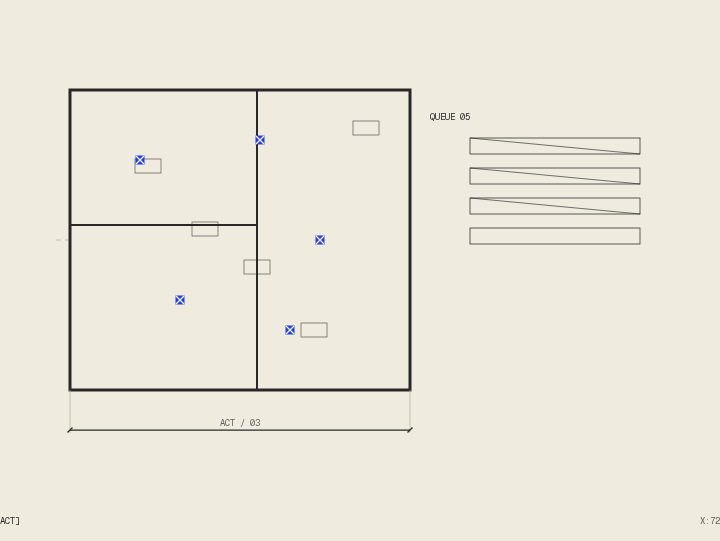
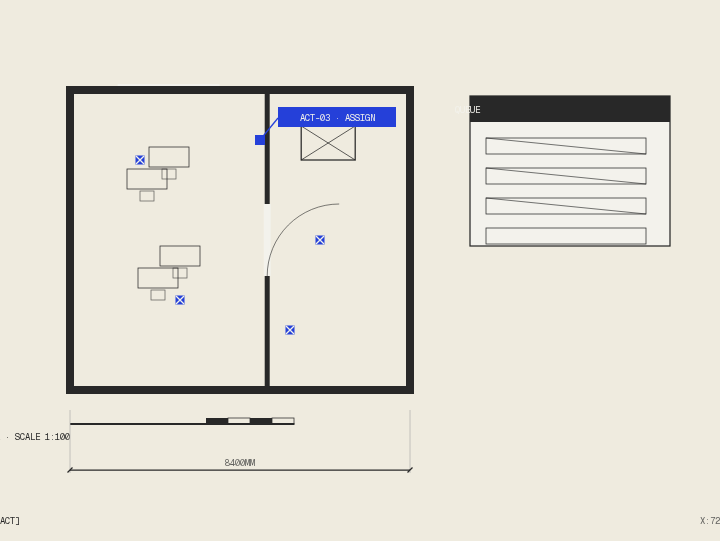
fix(r359): why plates read as real plans — poché fragments, anchored callout tags, instrument cards, title blocks

diff --git a/shared/art/scenes/sections.ts b/shared/art/scenes/sections.ts
@@ -13,7 +13,7 @@
  */
 import type { ArtBuilder, ArtDoc, ArtNode } from '../grammar';
 import {
-  C, D, W, circ, dashRule, dimH, hatchPoly, label, line,
+  C, D, W, circ, dashRule, dimH, g, hatchPoly, label, line,
   path, rect, stairs, stipplePoly, tree,
 } from '../grammar';
 
@@ -40,21 +40,53 @@ function link(x1: number, y1: number, x2: number, y2: number): ArtNode {
   return line(x1, y1, x2, y2, { stroke: C.sig, 'stroke-width': W.fine, 'stroke-dasharray': '5 4' });
 }
 
-/** a small plan fragment (rooms) used as the base of why plates */
+/** a real plan fragment: poché walls, opening + swing, furniture */
 function planFragment(x: number, y: number, w: number, h: number, seed: number): ArtNode[] {
   const out: ArtNode[] = [];
-  out.push(rect(x, y, w, h, { fill: 'none', stroke: C.ink, 'stroke-width': 3 }));
-  out.push(line(x + w * 0.55, y, x + w * 0.55, y + h, { stroke: C.ink, 'stroke-width': 2 }));
-  out.push(line(x, y + h * 0.45, x + w * 0.55, y + h * 0.45, { stroke: C.ink, 'stroke-width': 2 }));
-  // furniture hints
+  const XW2 = 8, PW2 = 5;
+  // poché envelope
+  out.push(line(x, y, x + w, y, { stroke: C.ink, 'stroke-width': XW2, 'stroke-linecap': 'square' }));
+  out.push(line(x + w, y, x + w, y + h, { stroke: C.ink, 'stroke-width': XW2, 'stroke-linecap': 'square' }));
+  out.push(line(x + w, y + h, x, y + h, { stroke: C.ink, 'stroke-width': XW2, 'stroke-linecap': 'square' }));
+  out.push(line(x, y + h, x, y, { stroke: C.ink, 'stroke-width': XW2, 'stroke-linecap': 'square' }));
+  // partitions with a door opening
+  out.push(line(x + w * 0.58, y, x + w * 0.58, y + h * 0.38, { stroke: C.ink, 'stroke-width': PW2 }));
+  out.push(line(x + w * 0.58, y + h * 0.62, x + w * 0.58, y + h, { stroke: C.ink, 'stroke-width': PW2 }));
+  out.push(rect(x + w * 0.58 - PW2 / 2 - 1, y + h * 0.38, PW2 + 2, h * 0.24, { fill: 'var(--r359-paper)', stroke: 'none' }));
+  out.push(path(`M${x + w * 0.58} ${y + h * 0.62}A${h * 0.24} ${h * 0.24} 0 0 1 ${x + w * 0.58 + h * 0.24} ${y + h * 0.38}`, { fill: 'none', stroke: C.ink, 'stroke-width': W.hair, opacity: 0.8 }));
+  // window band on the far wall
+  out.push(rect(x + w * 0.14, y - XW2 / 2 - 2, w * 0.3, 2, { fill: C.paper, stroke: 'none' }));
+  out.push(line(x + w * 0.14, y - 3, x + w * 0.44, y - 3, { stroke: C.ink, 'stroke-width': W.fine }));
+  out.push(line(x + w * 0.14, y + 3, x + w * 0.44, y + 3, { stroke: C.ink, 'stroke-width': W.fine }));
+  // furniture: desks + X-box
   const r = seed * 13;
-  for (let i = 0; i < 5; i++) {
-    const fx = x + 18 + ((r * (i + 3) * 37) % Math.max(1, w - 70));
-    const fy = y + 18 + ((r * (i + 5) * 53) % Math.max(1, h - 60));
-    out.push(rect(fx, fy, 26, 14, { fill: 'none', stroke: C.ink, 'stroke-width': W.hair, opacity: 0.7 }));
+  for (let i = 0; i < 4; i++) {
+    const fx = x + 24 + ((r * (i + 3) * 37) % Math.max(1, w * 0.5 - 60));
+    const fy = y + 24 + ((r * (i + 5) * 53) % Math.max(1, h - 80));
+    out.push(rect(fx, fy, 40, 20, { fill: 'none', stroke: C.ink, 'stroke-width': W.hair }));
+    out.push(rect(fx + 13, fy + 22, 14, 10, { fill: 'none', stroke: C.ink, 'stroke-width': W.hair, opacity: 0.7 }));
   }
-  out.push(dashRule(x - 14, y + h * 0.5, x - 2, y + h * 0.5));
+  out.push(rect(x + w * 0.68, y + h * 0.12, 54, 34, { fill: 'none', stroke: C.ink, 'stroke-width': W.fine }));
+  out.push(line(x + w * 0.68, y + h * 0.12, x + w * 0.68 + 54, y + h * 0.12 + 34, { stroke: C.ink, 'stroke-width': W.hair }));
+  out.push(line(x + w * 0.68 + 54, y + h * 0.12, x + w * 0.68, y + h * 0.12 + 34, { stroke: C.ink, 'stroke-width': W.hair }));
+  // title block + scale bar
+  out.push(line(x, y + h + 34, x + w * 0.66, y + h + 34, { stroke: C.ink, 'stroke-width': W.med }));
+  out.push(label(x, y + h + 50, `ROOM ${seed}/A · SCALE 1:100`, { fill: C.ink }));
+  for (let i = 0; i < 4; i++) {
+    out.push(rect(x + w * 0.4 + i * 22, y + h + 28, 22, 6, i % 2 === 0 ? { fill: C.ink, stroke: 'none' } : { fill: 'none', stroke: C.ink, 'stroke-width': W.hair }));
+  }
   return out;
+}
+
+/** anchored callout: leader + 0-radius royal tag with code (why plates) */
+function tag(x: number, y: number, code: string, w = 118): ArtNode {
+  return g(
+    {},
+    line(x, y, x + 18, y - 22, { stroke: C.sig, 'stroke-width': W.fine }),
+    rect(x - 5, y - 5, 10, 10, { fill: C.sig, stroke: 'none' }),
+    rect(x + 18, y - 33, w, 20, { fill: C.sig, stroke: 'none' }),
+    label(x + 18 + w / 2, y - 19.5, code, { fill: 'var(--r359-paper)', 'text-anchor': 'middle' }),
+  );
 }
 
 /** hairline UI card (the product-block voice) */
@@ -79,13 +111,13 @@ function whyObserve(): ArtDoc {
   nodes.push(link(pts[5]![0], pts[5]![1], pts[0]![0], pts[0]![1]));
   for (const [px, py] of pts) nodes.push(node2(px, py));
   // instrument labels
-  nodes.push(label(470, 120, 'SIGNALS 06', { fill: C.ink }));
-  nodes.push(label(470, 140, 'LATENCY 4MS', {}));
-  nodes.push(label(470, 160, 'SOURCE LMS/A', {}));
-  for (let i = 0; i < 3; i++) {
-    nodes.push(circ(478, 196 + i * 26, 3, { fill: 'none', stroke: C.sig, 'stroke-width': W.fine }));
-  }
-  nodes.push(dimH(70, 410, 430, 40, 40, { label: 'OBSERVE / 01' }));
+  // one anchored finding, reference discipline
+  nodes.push(tag(240, 130, 'OBS-01 · SEAT 12'));
+  nodes.push(...uiCard(470, 96, 200, 120, 'SIGNALS'));
+  nodes.push(label(486, 140, 'SIGNALS 06', { fill: C.ink }));
+  nodes.push(label(486, 160, 'LATENCY 4MS', {}));
+  nodes.push(label(486, 180, 'SOURCE LMS/A', {}));
+  nodes.push(dimH(70, 410, 470, 60, 60, { label: '8400MM' }));
   return plateShell(720, 540, 'why-observe', 'راقب', nodes);
 }
 
@@ -103,10 +135,12 @@ function whyAdvise(): ArtDoc {
   for (const [dx, dy] of [[200, 140], [200, 250], [330, 250]] as Array<[number, number]>) {
     nodes.push(path(`M${dx} ${dy - 9}l9 9l-9 9l-9 -9z`, { fill: 'var(--r359-paper)', stroke: C.sig, 'stroke-width': W.fine }));
   }
-  nodes.push(label(470, 120, 'PATH 3 OF 9', { fill: C.ink }));
-  nodes.push(label(470, 140, 'CONF 0.87', {}));
-  nodes.push(label(470, 160, 'RULES 12', {}));
-  nodes.push(dimH(70, 410, 430, 40, 40, { label: 'ADVISE / 02' }));
+  nodes.push(tag(200, 250, 'ADV-02 · ROUTE B'));
+  nodes.push(...uiCard(470, 96, 200, 120, 'ADVISOR'));
+  nodes.push(label(486, 140, 'PATH 3 OF 9', { fill: C.ink }));
+  nodes.push(label(486, 160, 'CONF 0.87', {}));
+  nodes.push(label(486, 180, 'RULES 12', {}));
+  nodes.push(dimH(70, 410, 470, 60, 60, { label: '8400MM' }));
   return plateShell(720, 540, 'why-advise', 'وجّه', nodes);
 }
 
@@ -119,14 +153,14 @@ function whyAct(): ArtDoc {
     nodes.push(node2(fx, fy, 9));
     nodes.push(path(`M${fx - 4} ${fy - 4}l8 8M${fx + 4} ${fy - 4}l-8 8`, { stroke: 'var(--r359-paper)', 'stroke-width': W.fine, fill: 'none' }));
   }
-  // strike-through task list (right)
-  nodes.push(label(470, 120, 'QUEUE 05', { fill: C.ink }));
+  nodes.push(tag(260, 140, 'ACT-03 · ASSIGN'));
+  nodes.push(...uiCard(470, 96, 200, 150, 'QUEUE'));
   for (let i = 0; i < 4; i++) {
     const ly = 148 + i * 30;
-    nodes.push(rect(470, ly - 10, 170, 16, { fill: 'none', stroke: C.ink, 'stroke-width': W.hair }));
-    nodes.push(line(470, ly - 10, 640, ly + 6, { stroke: C.ink, 'stroke-width': W.hair, opacity: i < 3 ? 0.85 : 0 }));
+    nodes.push(rect(486, ly - 10, 160, 16, { fill: 'none', stroke: C.ink, 'stroke-width': W.hair }));
+    nodes.push(line(486, ly - 10, 646, ly + 6, { stroke: C.ink, 'stroke-width': W.hair, opacity: i < 3 ? 0.85 : 0 }));
   }
-  nodes.push(dimH(70, 410, 430, 40, 40, { label: 'ACT / 03' }));
+  nodes.push(dimH(70, 410, 470, 60, 60, { label: '8400MM' }));
   return plateShell(720, 540, 'why-act', 'نفّذ', nodes);
 }
 
@@ -144,14 +178,15 @@ function whyLearn(): ArtDoc {
     const px = cx + Math.cos(a) * rx, py = cy + Math.sin(a) * ry;
     nodes.push(node2(px, py, 10));
   }
-  nodes.push(label(470, 120, 'EPOCH 42', { fill: C.ink }));
-  nodes.push(label(470, 140, 'GAIN +3.1%', {}));
-  nodes.push(label(470, 160, 'MSE 0.018', {}));
-  // small mastery bar ladder
+  nodes.push(tag(320, 240, 'LRN-04 · +3.1%'));
+  nodes.push(...uiCard(470, 96, 200, 170, 'LOOP'));
+  nodes.push(label(486, 140, 'EPOCH 42', { fill: C.ink }));
+  nodes.push(label(486, 160, 'GAIN +3.1%', {}));
+  nodes.push(label(486, 180, 'MSE 0.018', {}));
   for (let i = 0; i < 4; i++) {
-    nodes.push(rect(470, 200 + i * 22, 30 + i * 26, 10, { fill: i === 3 ? C.sig : 'none', stroke: C.ink, 'stroke-width': W.hair }));
+    nodes.push(rect(486, 204 + i * 22, 30 + i * 32, 10, { fill: i === 3 ? C.sig : 'none', stroke: C.ink, 'stroke-width': W.hair }));
   }
-  nodes.push(dimH(70, 410, 430, 40, 40, { label: 'LEARN / 04' }));
+  nodes.push(dimH(70, 410, 470, 60, 60, { label: '8400MM' }));
   return plateShell(720, 540, 'why-learn', 'تعلّم', nodes);
 }
 
